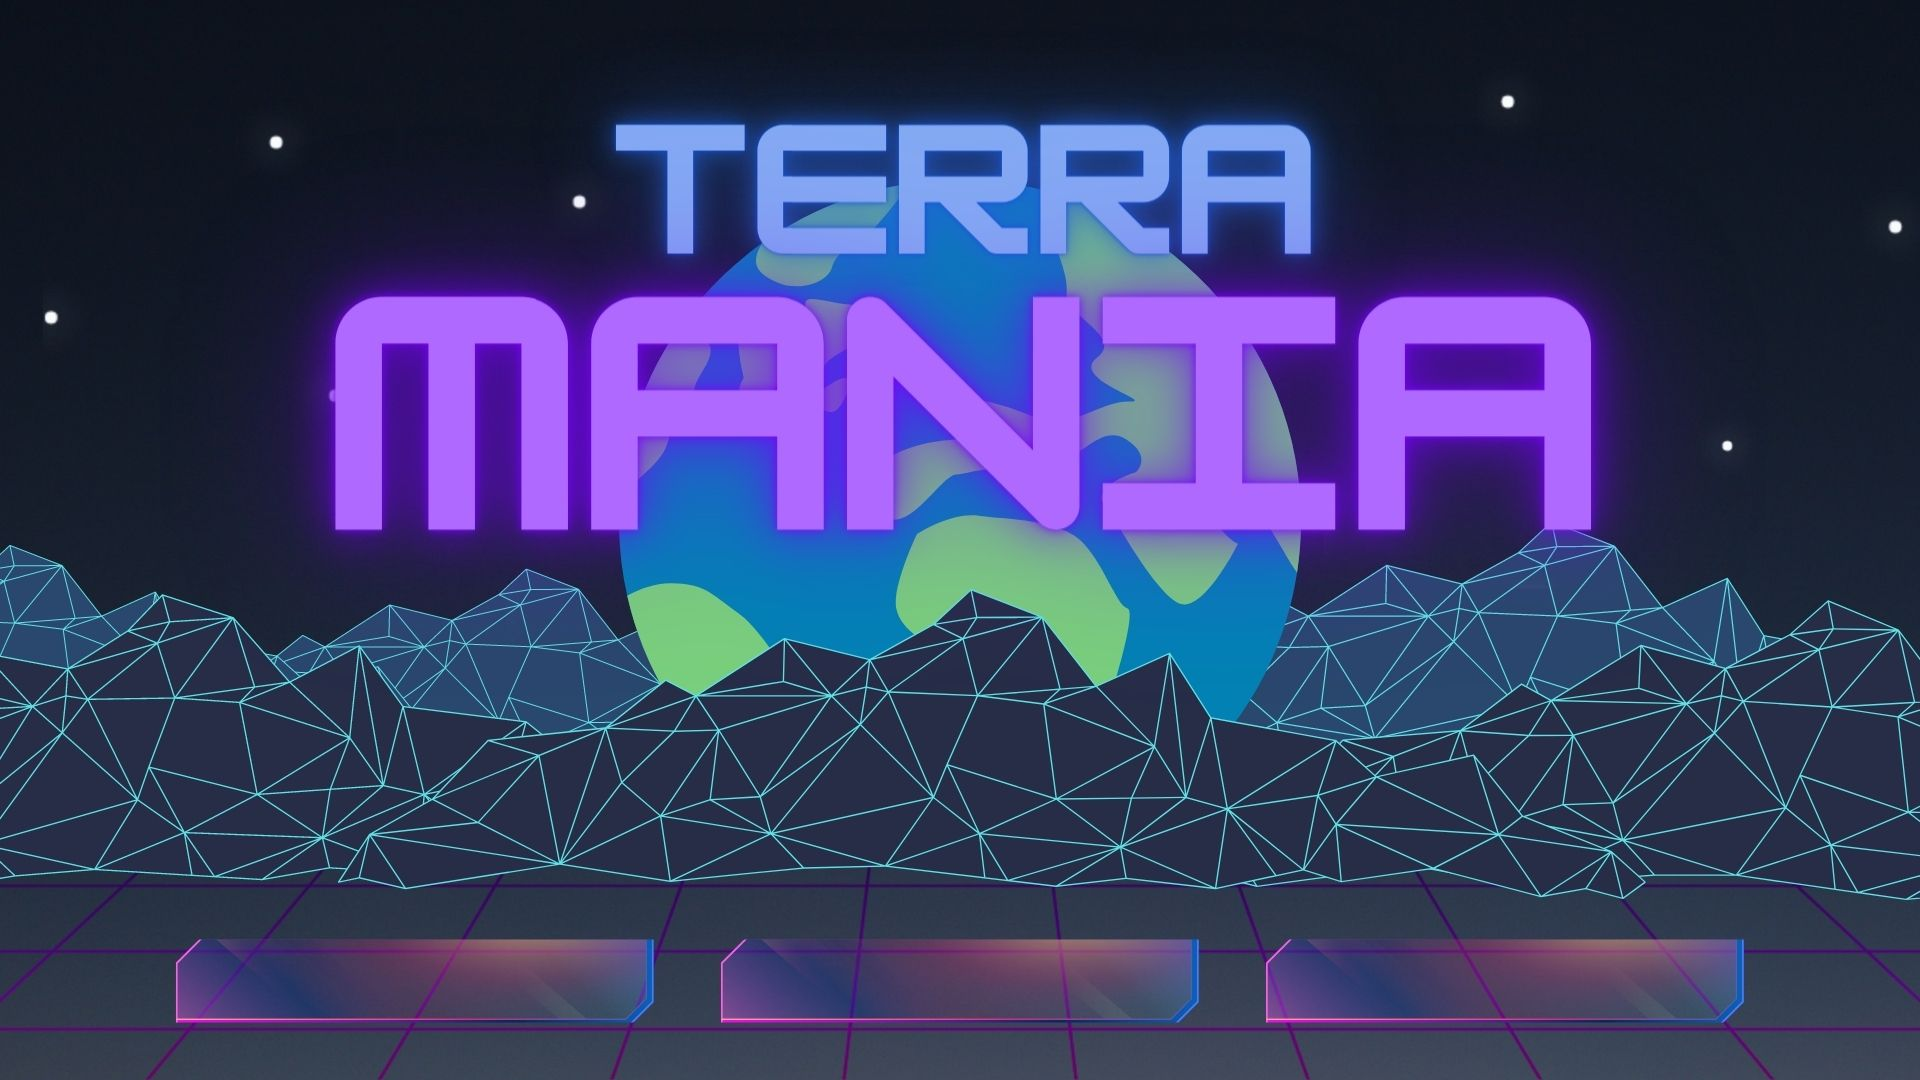
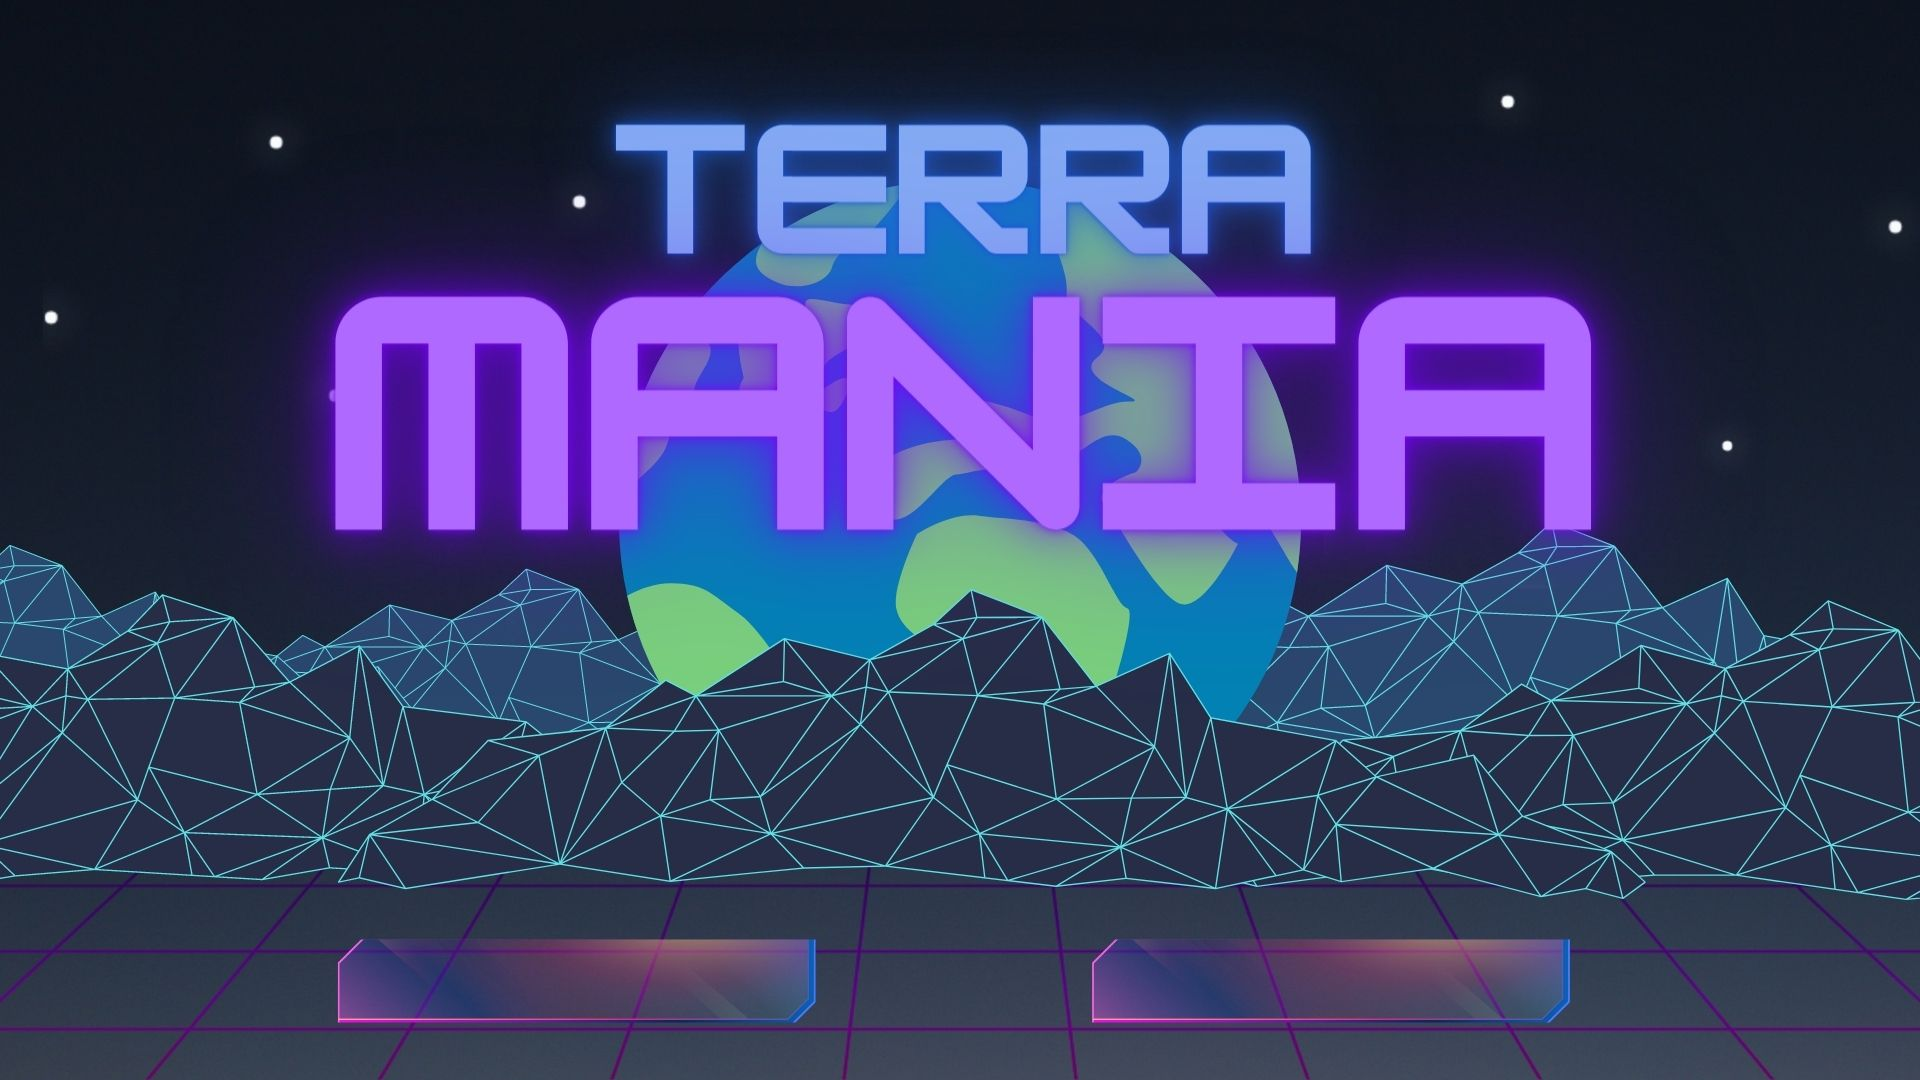
Remove options button in main menu

Changed region(s): [[0.0938, 0.8556, 0.9062, 0.9472]]

diff --git a/game.py b/game.py
@@ -636,9 +636,6 @@ class Game:
     def get_font(self, size):  # Returns Press-Start-2P in the desired size
         return pygame.font.Font("assets/fonts/font.ttf", size)
 
-    def options(self):
-        return
-
     def load_camera(self):
         self.frame, self.img = self.cap.read()
 
@@ -869,19 +866,15 @@ class Game:
             self.window.blit(backgroundImageScaled, (0, 0))
             MENU_MOUSE_POS = pygame.mouse.get_pos()
             MENU_TEXT = self.get_font(custom_font_size.TEXT_MAIN_MENU_FONT_SIZE).render("MAIN MENU", True, "#b68f40")
-            MENU_RECT = MENU_TEXT.get_rect(center=(640, 100))
 
-            PLAY_BUTTON = Button(image=None, pos=(280, 655),
+            PLAY_BUTTON = Button(image=None, pos=(385, 655),
                                  text_input="Play", font=self.get_font(custom_font_size.BUTTON_MENU_FONT_SIZE), base_color="#d7fcd4",
                                  hovering_color="Blue")
-            OPTIONS_BUTTON = Button(image=None, pos=(640, 655),
-                                    text_input="Options", font=self.get_font(custom_font_size.BUTTON_MENU_FONT_SIZE), base_color="#d7fcd4",
-                                    hovering_color="Blue")
-            QUIT_BUTTON = Button(image=None, pos=(1005, 655),
+            QUIT_BUTTON = Button(image=None, pos=(895, 655),
                                  text_input="Quit", font=self.get_font(custom_font_size.BUTTON_MENU_FONT_SIZE), base_color="#d7fcd4",
                                  hovering_color="Blue")
             # self.window.blit(MENU_TEXT, MENU_RECT)
-            for button in [PLAY_BUTTON, OPTIONS_BUTTON, QUIT_BUTTON]:
+            for button in [PLAY_BUTTON, QUIT_BUTTON]:
                 button.changeColor(MENU_MOUSE_POS)
                 button.update(self.window)
 
@@ -894,8 +887,6 @@ class Game:
                         # play()
                         # self.continentsMenu()
                         self.singlePlayerOrMultiplayerMenu()
-                    if OPTIONS_BUTTON.checkForInput(MENU_MOUSE_POS):
-                        self.options()
                     if QUIT_BUTTON.checkForInput(MENU_MOUSE_POS):
                         pygame.quit()
                         sys.exit()
